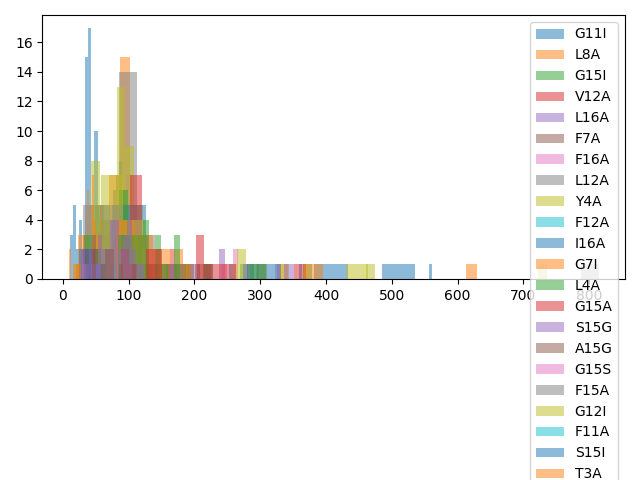
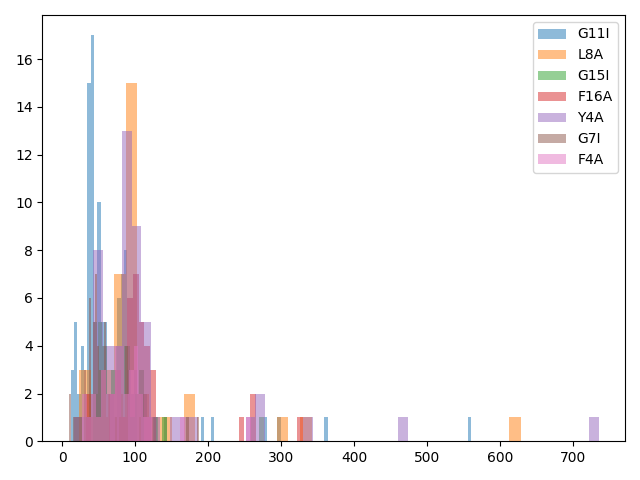
hist testing; find a good lower limit for samples

diff --git a/ngsReconstruction/CHIP2_analysisCode/sequenceVsMutant.py b/ngsReconstruction/CHIP2_analysisCode/sequenceVsMutant.py
@@ -135,14 +135,16 @@ for sample in samples:
             x = df_pos['percent_wt']
             # maybe this works? Still too many around 0, maybe find a way to get rid of anything without a certain y value?
             # also run this on the sequences that don't fluoresce as well and compare to see if there are any things that are significantly different
-            if len(x) < 10:
+            # get highest percent wt
+            high = df_pos['percent_wt'].max()
+            if len(x) < 30:
                 continue
             else:
                 plt.hist(x, bins=len(x), alpha=0.5, label=pos)
     plt.legend(loc='upper right')
     plt.tight_layout()
     plt.savefig(f'{output_dir}/{sample}_{pos}.png')
-    exit(0)
+    plt.clf()
 
 ## plot bar graph
 #xaxis = 'position'
